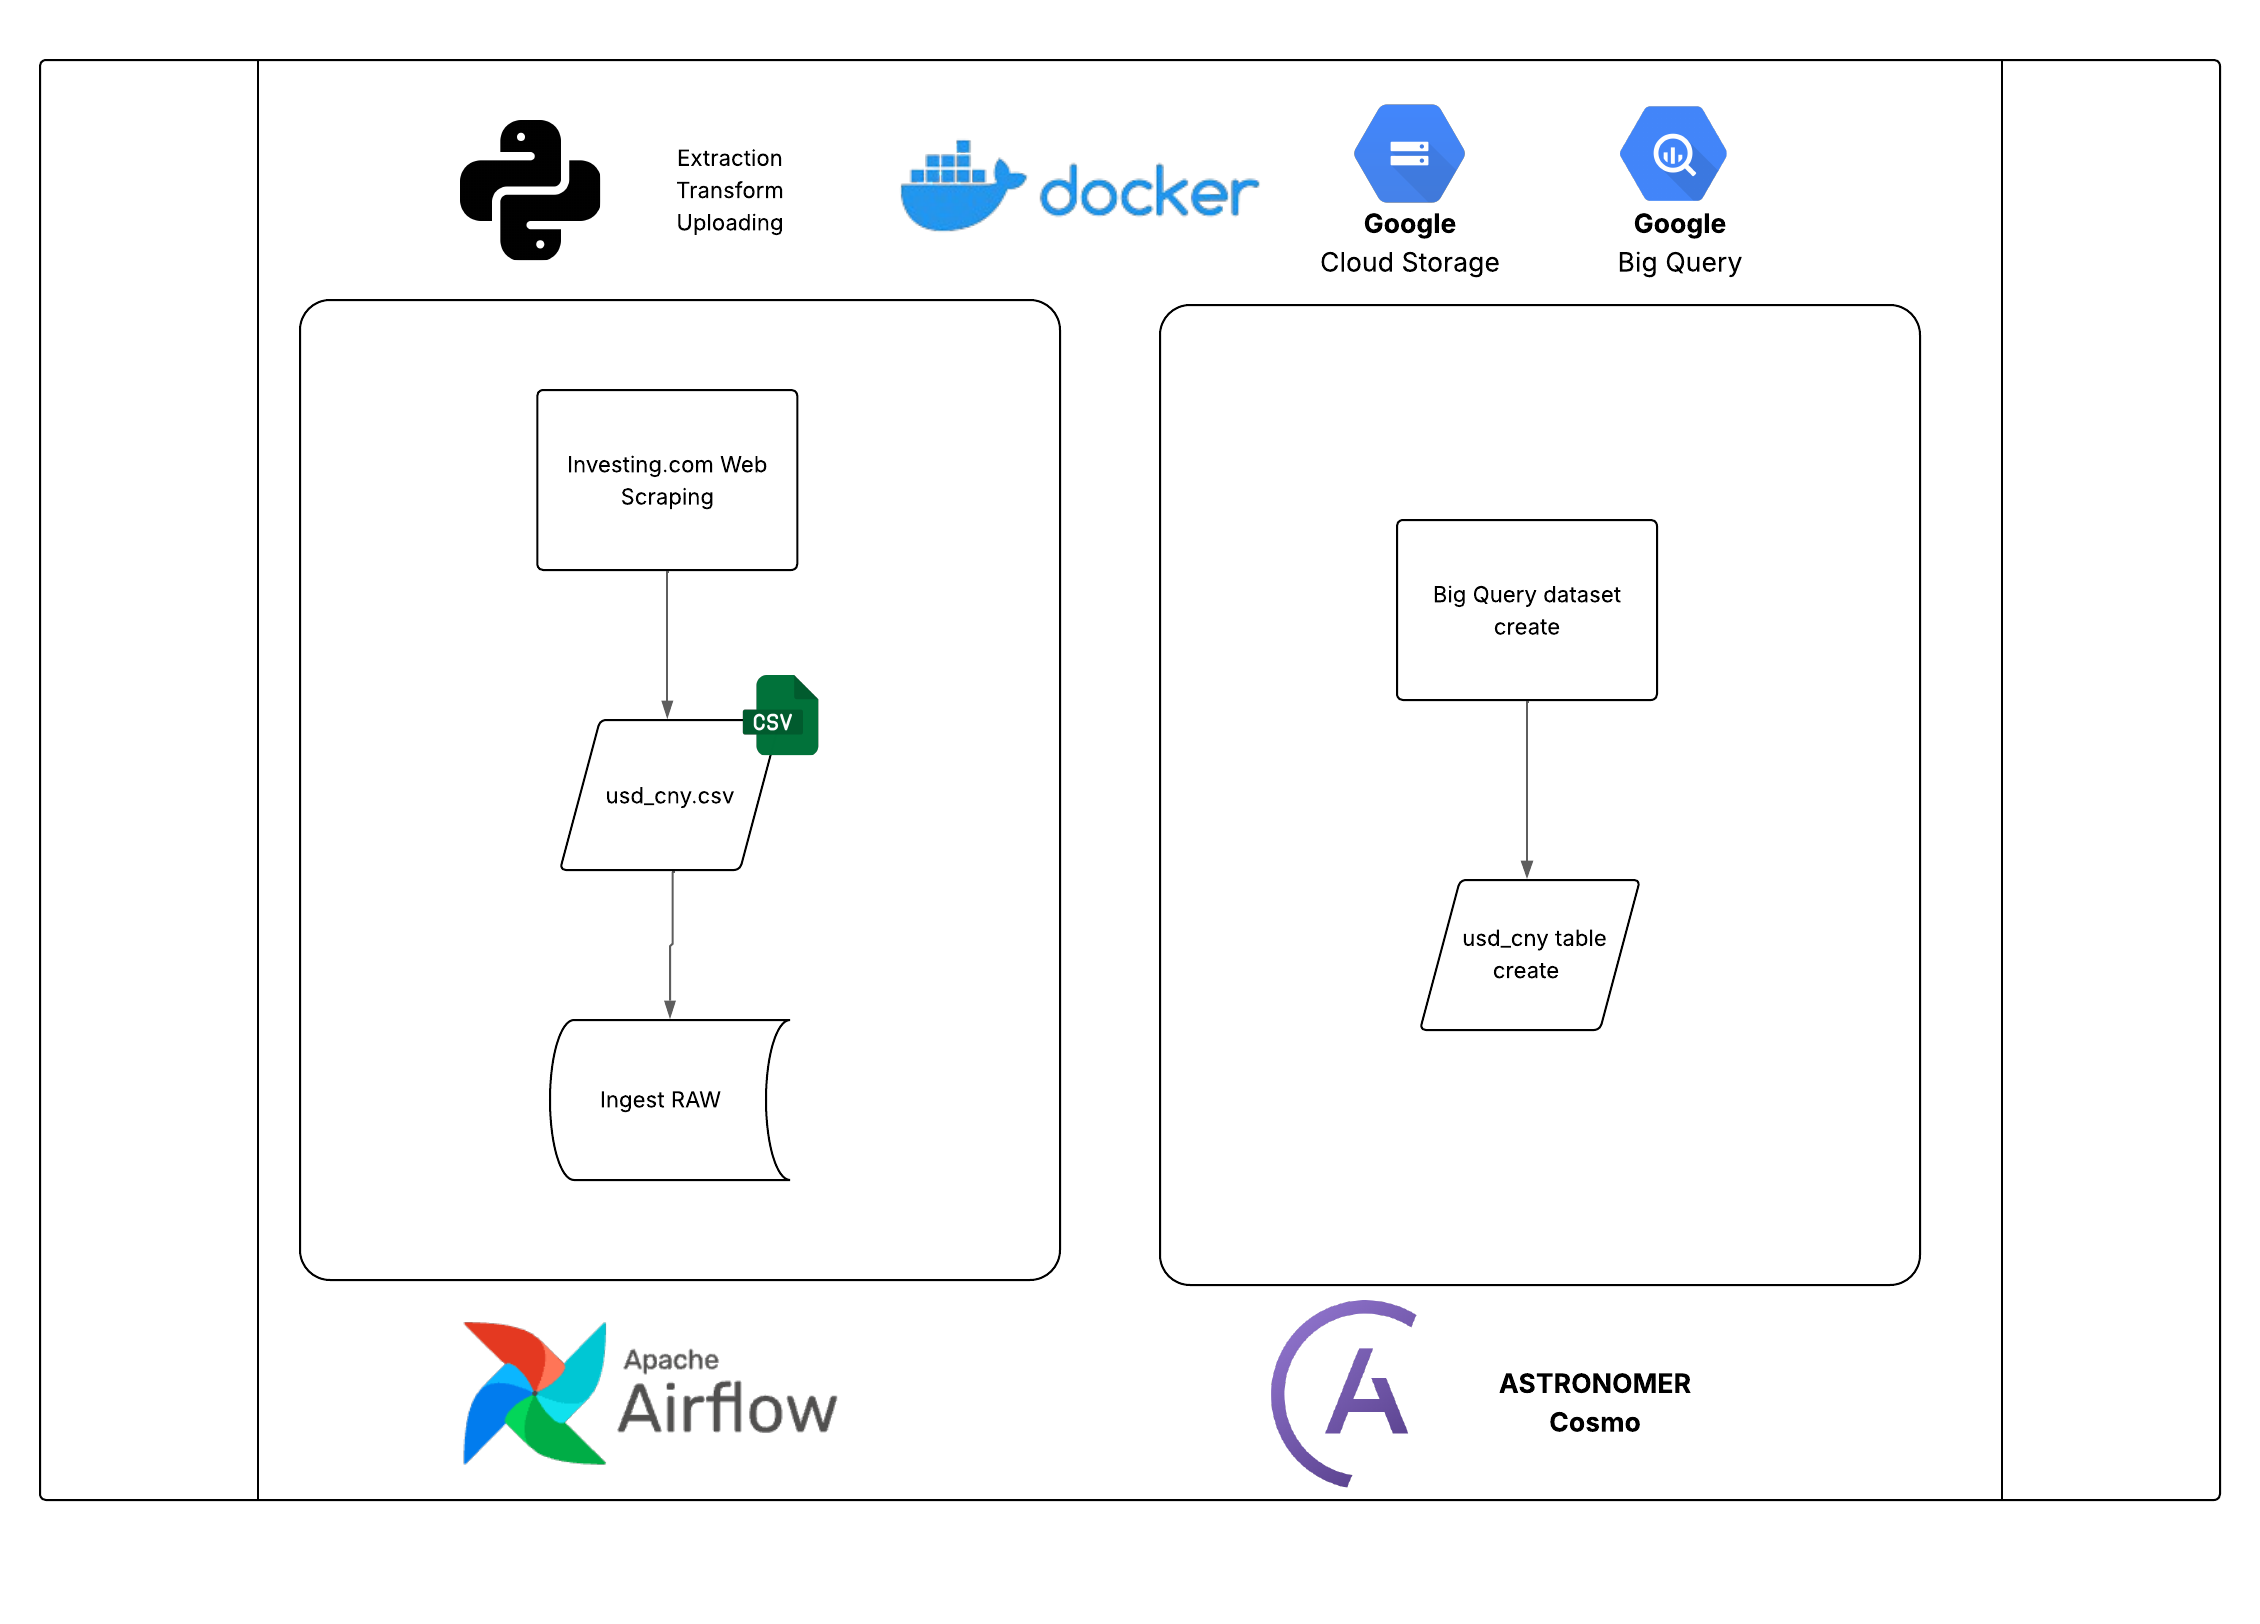
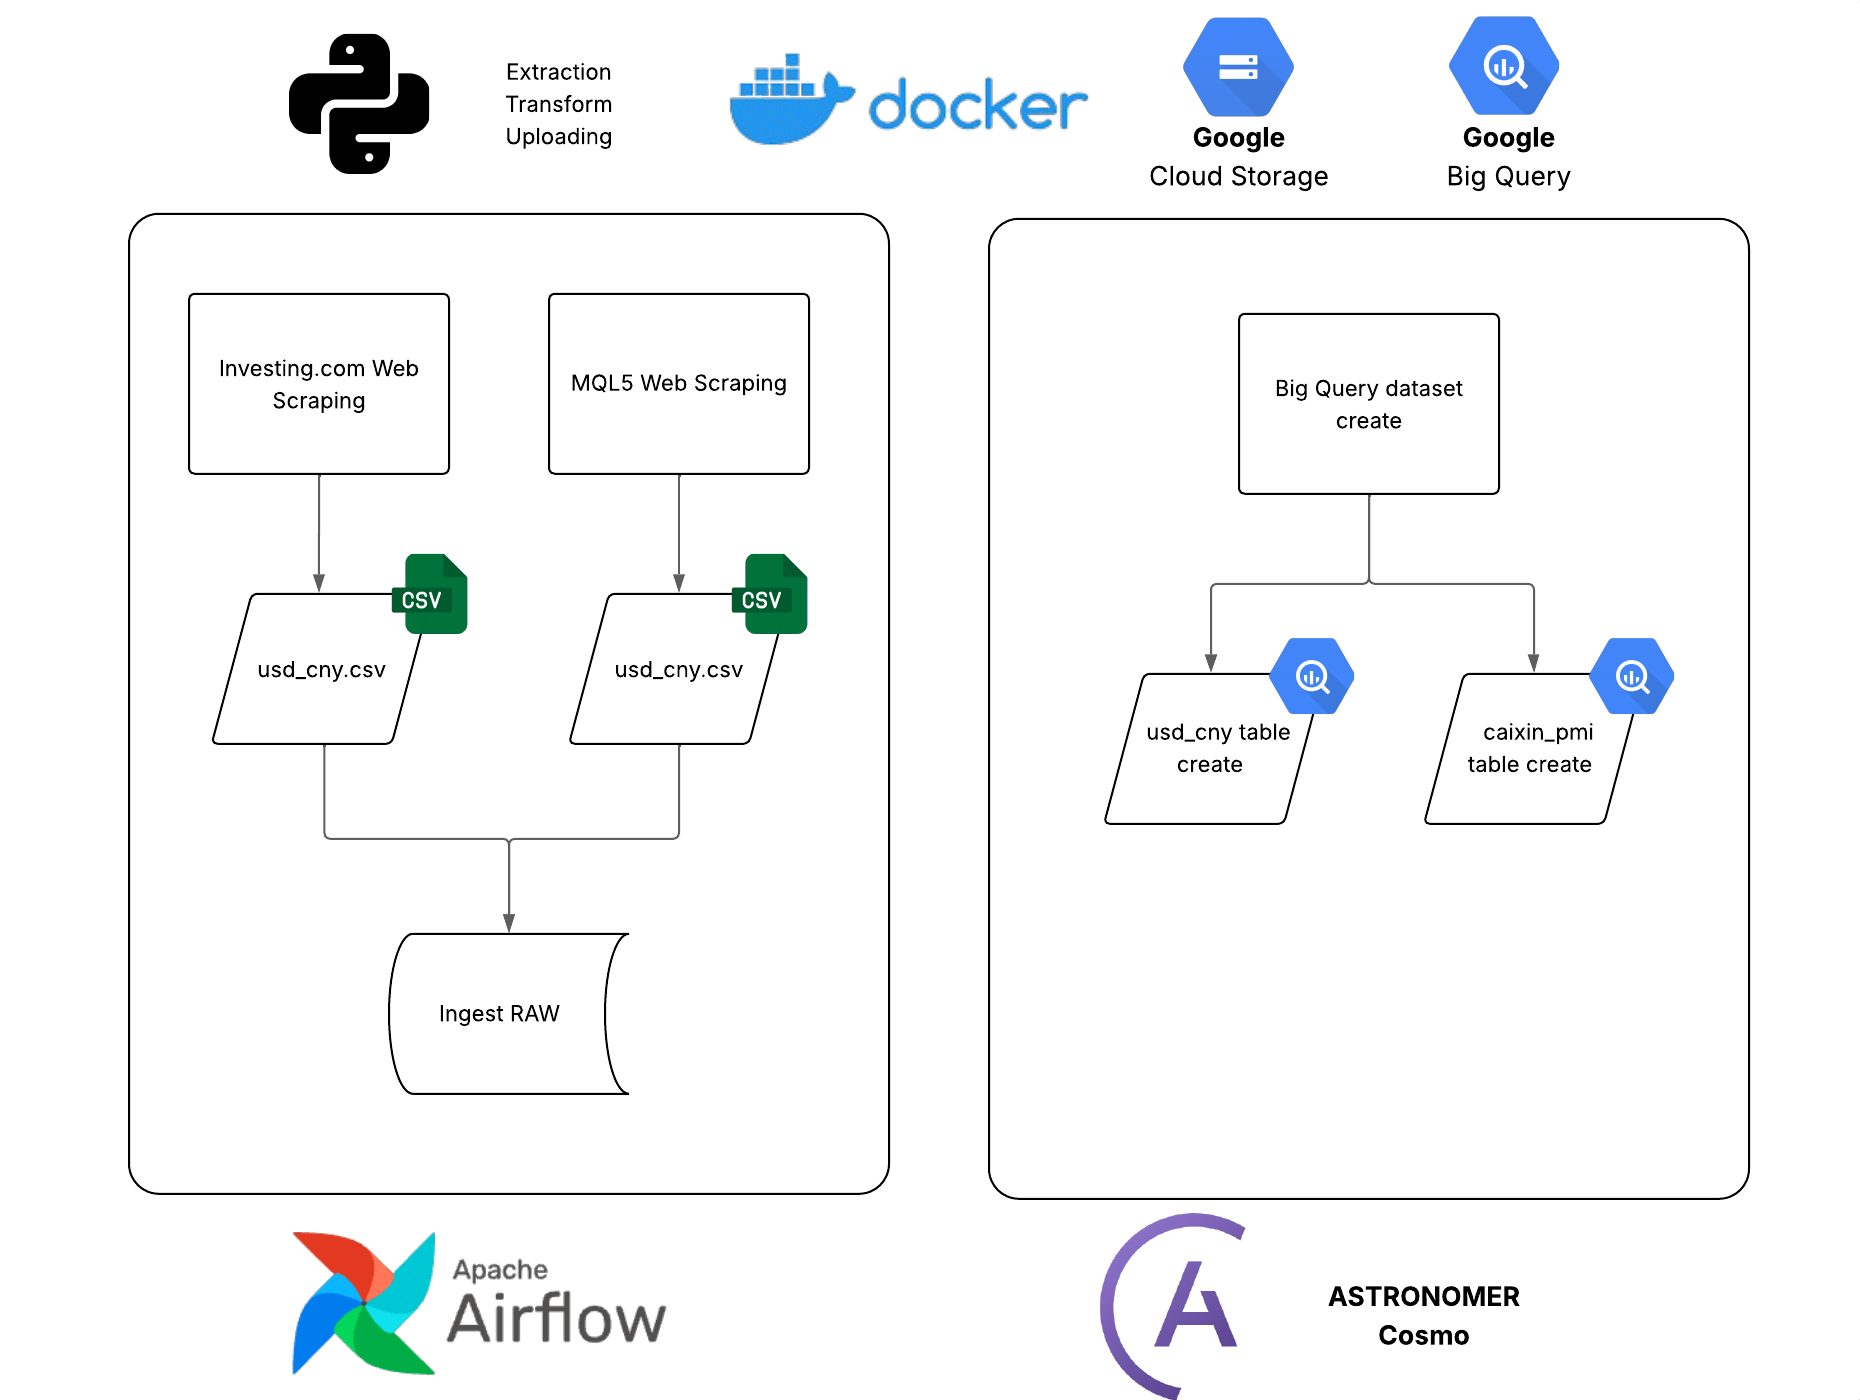
new img/readme updated

diff --git a/README.md b/README.md
@@ -16,7 +16,7 @@ Data is scraped, cleaned, and automatically loaded into a scalable cloud archite
 | Layer           | Tool                      |
 |-----------------|----------------------------|
 | Orchestration   | Apache Airflow             |
-| Web Scraping    | Selenium + BeautifulSoup   |
+| Web Scraping    | Request + Selenium + BeautifulSoup   |
 | Cloud Storage   | Google Cloud Storage (GCS) |
 | Database        | BigQuery                   |
 | ETL Facilitator | Astro SDK                  |
@@ -24,10 +24,10 @@ Data is scraped, cleaned, and automatically loaded into a scalable cloud archite
 
 ## How It Works
 
-![Diagram](src\scraper\img\fluxo.png)
+![Diagram](src/scraper/img/fluxo.png)
 
 
-## Code Explanation
+## Codes Explanation
 
 ### DAG: `papers`
 
@@ -129,7 +129,7 @@ Copy your project ID and save it for later.
 
 With the project selected, go to https://console.cloud.google.com/storage/browser and create a Bucket.
 Use the name ```<yourname>_papers_pricing```.
-And change the variable ```bucket_name``` value to your bucket name at the ```dags\papers.py``` file.
+And change the variable ```bucket_name``` value to your bucket name at the ```dags\usd_cny.py``` and ```dags\caixin_pmi.py``` files.
 
 ## Create an service account for the project
 
@@ -148,7 +148,7 @@ Save it.
 
 ### All set, start the DAG
 
-With your Airflow running, go to http://localhost:8080/ and click on DAGs, and click on the papers DAG.
+With your Airflow running, go to http://localhost:8080/ and click on DAGs, and click on the papers and caixin_pmi DAGs.
 Then, start the DAG (play button on the upper right side).
 
 It will go step by step, and if everything was followed, you will get a green execution at the end.
